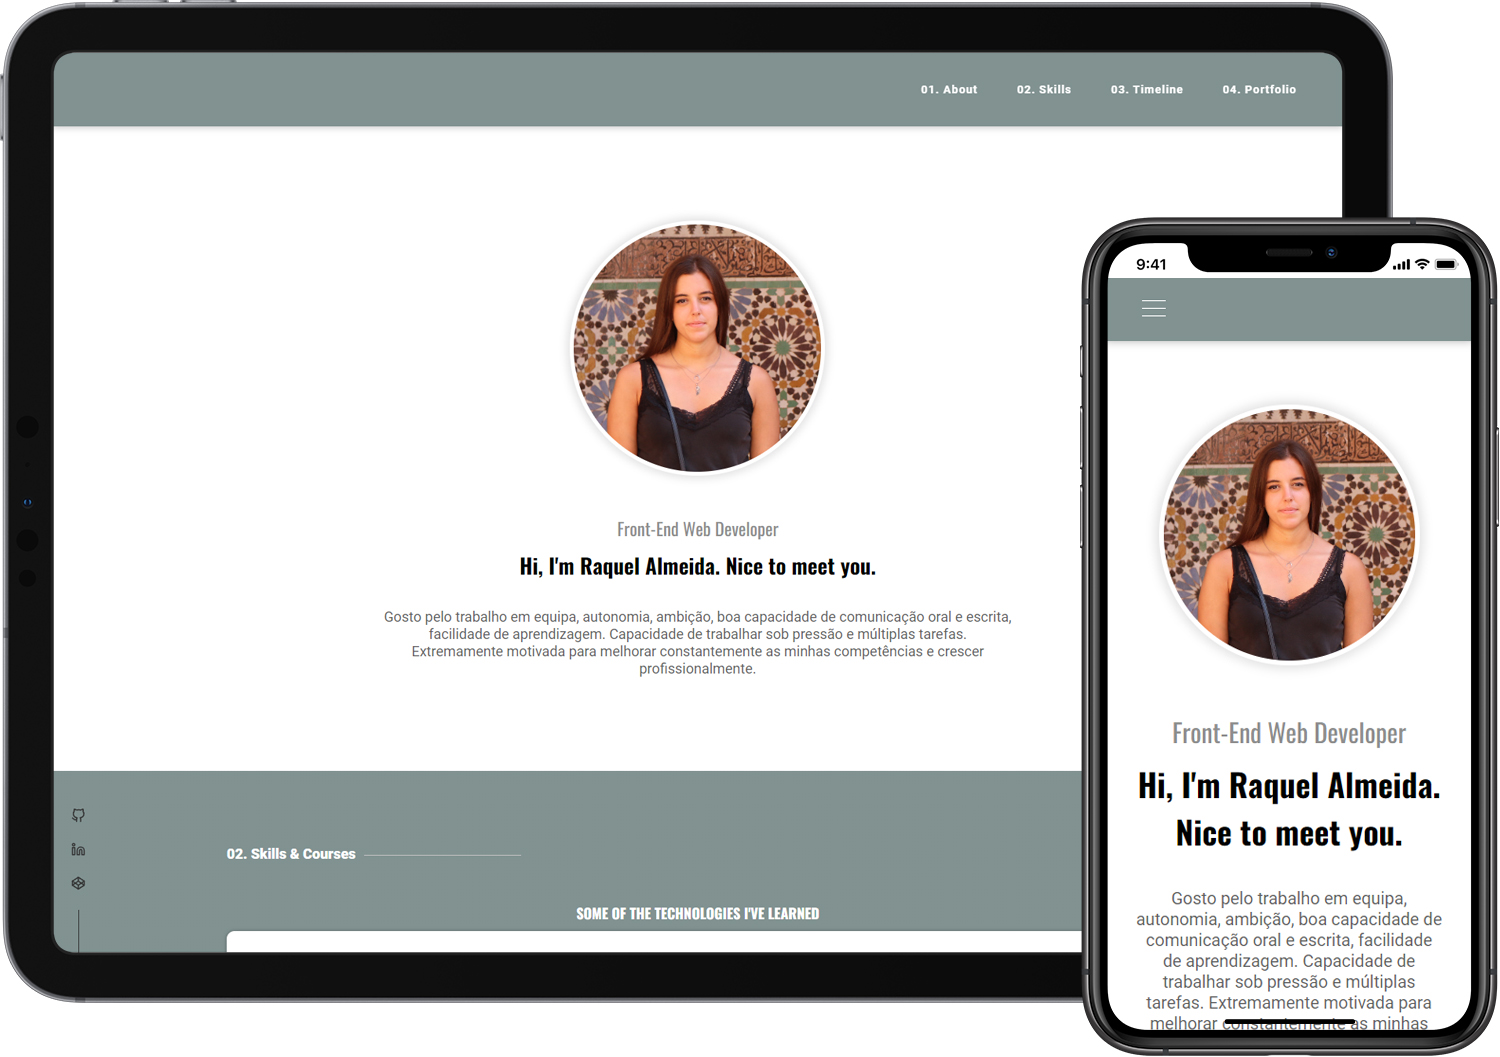
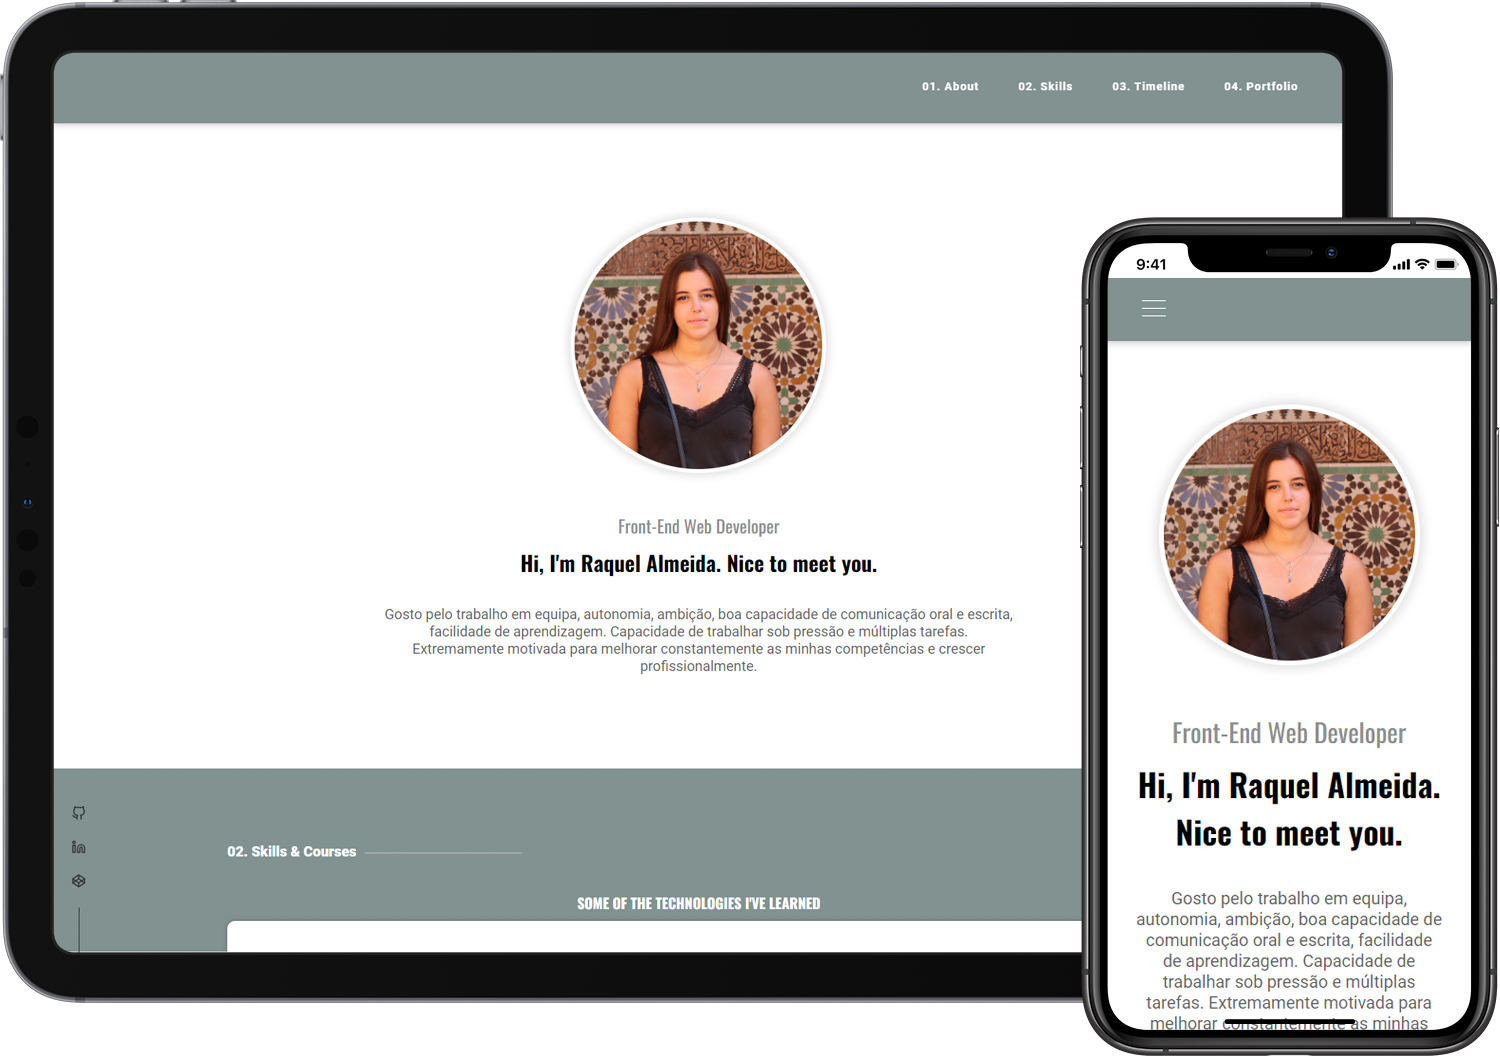
Courses Updated

diff --git a/src/components/Skills/Skills.jsx b/src/components/Skills/Skills.jsx
@@ -60,7 +60,7 @@ export default function Skills() {
             <h5>
               <a
                 className={styles.course_link}
-                href="https://flag.pt/"
+                href="https://flag.pt/curso/especializado-front-end-web-developer/"
                 alt="Flag"
                 target="_blank"
                 rel="noopener noreferrer"
@@ -68,10 +68,16 @@ export default function Skills() {
                 Flag
               </a>
             </h5>
-            <p>
-              Lorem Ipsum is simply dummy text of the printing and typesetting
-              industry.
-            </p>
+            <ul>
+              <li>UI/UX</li>
+              <li>HTML5</li>
+              <li>CSS3</li>
+              <li>Sass</li>
+              <li>Responsive</li>
+              <li>Angular</li>
+              <li>React</li>
+              <li>Git</li>
+            </ul>
           </div>
           <div className={styles.course}>
             <h4>Introduction To coding</h4>
@@ -86,10 +92,12 @@ export default function Skills() {
                 SheCodes
               </a>
             </h5>
-            <p>
-              Lorem Ipsum is simply dummy text of the printing and typesetting
-              industry.
-            </p>
+            <ul>
+              <li>HTML5</li>
+              <li>CSS3</li>
+              <li>ES6</li>
+              <li>VS Code</li>
+            </ul>
           </div>
           <div className={styles.course}>
             <h4>React - The Complete Guide</h4>
@@ -104,10 +112,14 @@ export default function Skills() {
                 Udemy
               </a>
             </h5>
-            <p>
-              Lorem Ipsum is simply dummy text of the printing and typesetting
-              industry.
-            </p>
+            <ul>
+              <li>Reactjs</li>
+              <li>Hooks</li>
+              <li>Redux</li>
+              <li>Routing</li>
+              <li>Animations</li>
+              <li>Next.js</li>
+            </ul>
           </div>
         </div>
       </div>

diff --git a/src/components/Portfolio/Portfolio.jsx b/src/components/Portfolio/Portfolio.jsx
@@ -46,11 +46,11 @@ export default function Portfolio() {
                   <FiGithub />
                 </a>
                 <p className={styles.description}>
-                  Lorem Ipsum is simply dummy text of the printing and
-                  typesetting industry. Lorem Ipsum has been the industry's
-                  standard dummy text ever since the 1500s, when an unknown
-                  printer took a galley of type and scrambled it to make a type
-                  specimen book.
+                  Web app created using React, in which I created a mock API to
+                  fetch the data used to build the meals list. The data returned
+                  by the API was filled through HTTP request using Postman App.
+                  You can add items to the cart and once you complete your
+                  order, you'll receive a confirmation email.
                 </p>
               </div>
             </SwiperSlide>
@@ -75,11 +75,8 @@ export default function Portfolio() {
                   <FiGithub />
                 </a>
                 <p className={styles.description}>
-                  Lorem Ipsum is simply dummy text of the printing and
-                  typesetting industry. Lorem Ipsum has been the industry's
-                  standard dummy text ever since the 1500s, when an unknown
-                  printer took a galley of type and scrambled it to make a type
-                  specimen book.
+                  Web app created using React, where I present myself and all
+                  the projects I've done so far.
                 </p>
               </div>
             </SwiperSlide>

diff --git a/src/components/Skills/Skills.module.scss b/src/components/Skills/Skills.module.scss
@@ -44,10 +44,11 @@
       font-weight: bold;
       font-family: $titleFont;
       text-transform: uppercase;
-      margin: 50px 0 10px 0;
+      margin: 40px 0 10px 0;
 
       &:last-of-type {
         color: $primaryColor;
+        margin-top: 60px;
       }
     }
 
@@ -101,7 +102,7 @@
           @include flexCenter(column);
           justify-content: space-between;
           width: 100%;
-          padding: 0 25px;
+          padding: 0 15px;
           max-width: 500px;
           border-right: 1px solid #e6ecf8;
 
@@ -125,6 +126,27 @@
             .course_link {
               text-decoration: none;
               color: black;
+            }
+          }
+
+          ul {
+            display: grid;
+            grid-template-columns: repeat(2, 1fr);
+            margin-top: 20px;
+            overflow: hidden;
+            list-style: none;
+            gap: 10px 20px;
+
+            li {
+              text-align: left;
+              white-space: nowrap;
+
+              &::before {
+                content: "\25BA \0020";
+                margin-right: 10px;
+                color: $secondaryColor;
+                font-size: 0.625rem;
+              }
             }
           }
 

diff --git a/src/components/About/About.jsx b/src/components/About/About.jsx
@@ -18,11 +18,8 @@ export default function About() {
             Hi, I'm Raquel Almeida. Nice to meet you.
           </h1>
           <p className={styles.about_me}>
-            Gosto pelo trabalho em equipa, autonomia, ambição, boa capacidade de
-            comunicação oral e escrita, facilidade de aprendizagem. Capacidade
-            de trabalhar sob pressão e múltiplas tarefas. Extremamente motivada
-            para melhorar constantemente as minhas competências e crescer
-            profissionalmente.
+            I'm extremely motivated to constantly improve my skills and grow
+            professionally.
           </p>
         </div>
       </div>
